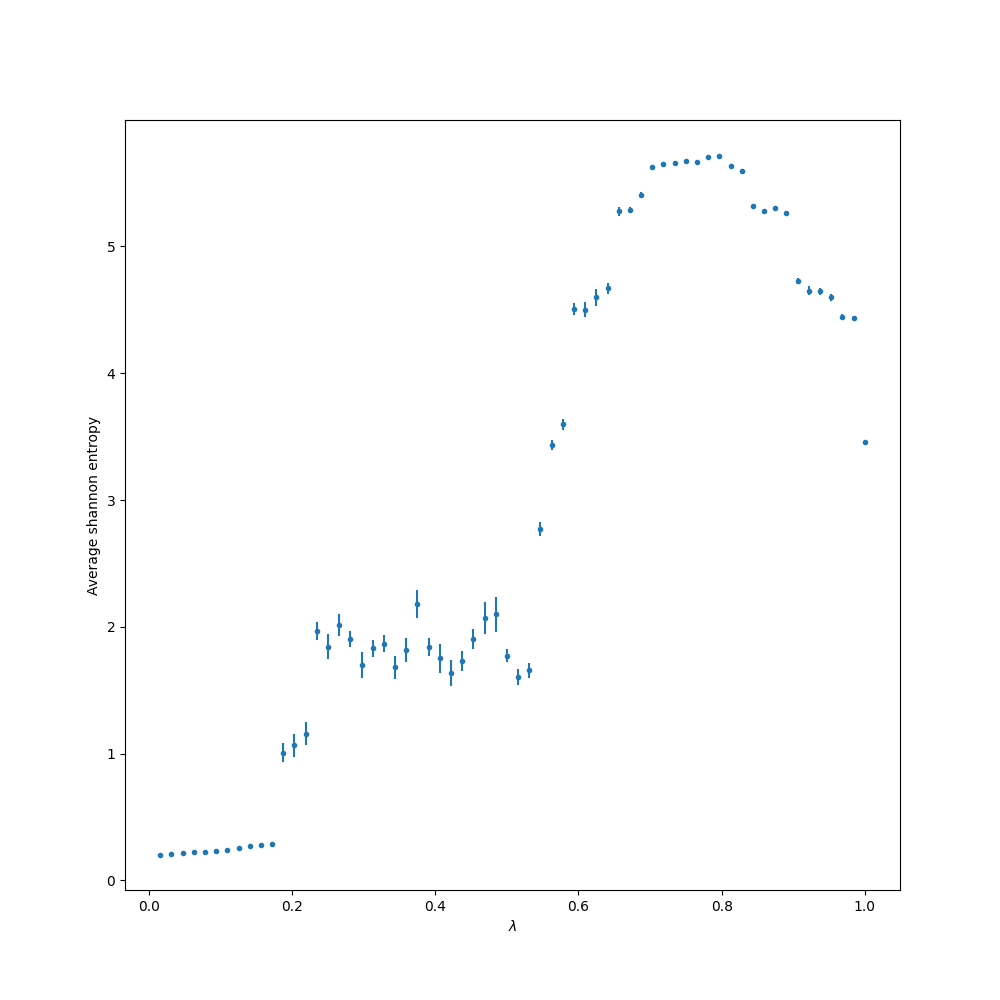
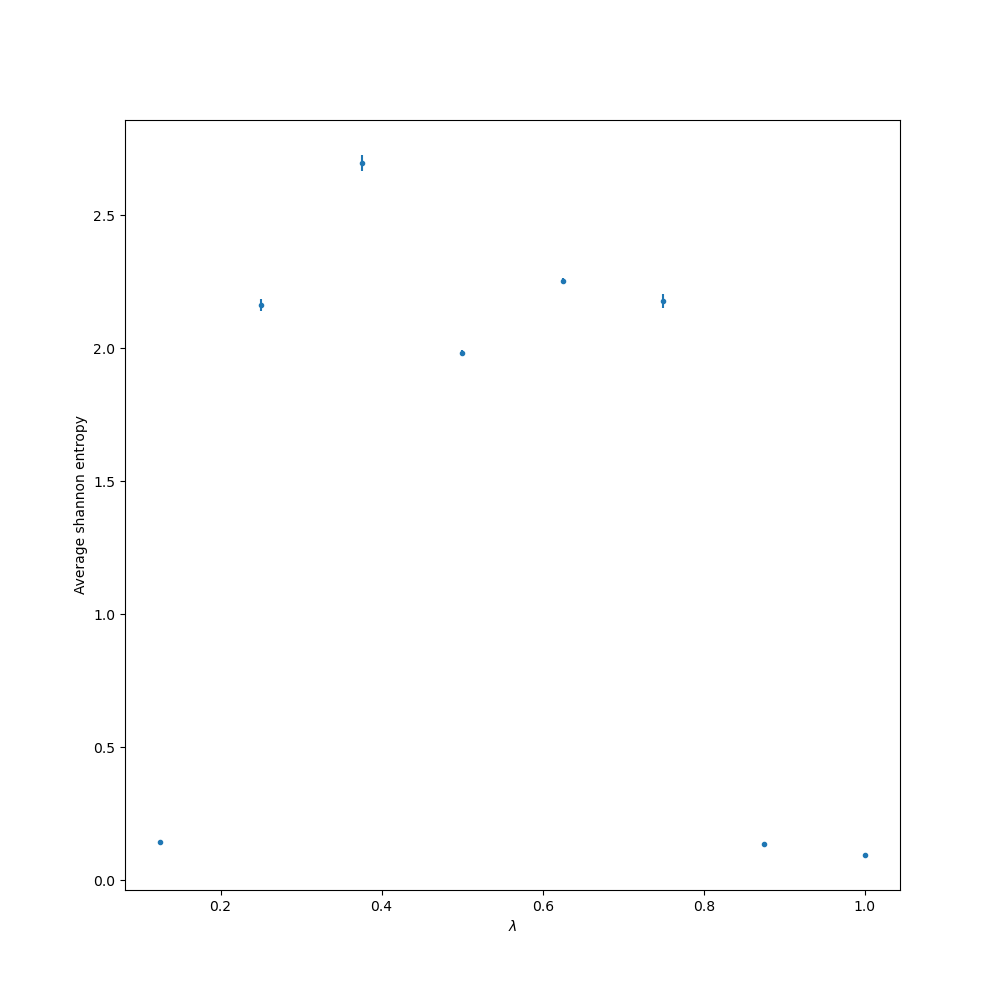
Colors added

diff --git a/langton_test.py b/langton_test.py
@@ -1,8 +1,9 @@
 from ca import CASim
 from ca import configs
-
+from matplotlib.patches import Patch
 from collections import Counter
 import numpy as np
+import csv
 import matplotlib.pyplot as plt
 
 
@@ -17,6 +18,7 @@ class CALangtonTest:
         self.all_configs = configs(self.sim.r, self.sim.k)
         self.size = width * height
         self.sim.init_twt()
+        self.sim.init_rt()
 
     def run(self, mode, lamb=None, new_rule_test=True):
         t = 0
@@ -36,7 +38,6 @@ class CALangtonTest:
             for _ in range(N):
                 self.run(mode="random", lamb=lamb)
                 shannons.append(self.shannon(self.sim.config))
-
             self.add_lists(shannons, lamb)
 
     def sweep_langton_twt(self, N):
@@ -108,12 +109,77 @@ class CALangtonTest:
         )
         figure.savefig(file)
 
+    def csv_lst(self):
+        csv_filename = "rule_class_wolfram.csv"
+        with open(csv_filename) as f:
+            reader = csv.reader(f)
+            lst = list(reader)
+        return lst
+
+    def plot_colors(self, file: str):
+        # For this plot function only use k=2 r=1, the given Wolfram class list 
+        # only includes the rule sets for these parameters. The max rule set is 
+        # 255.
+        figure = plt.figure(figsize=(10, 10))
+
+        color_list = ["purple", "blue", "red", "green", "purple"]
+        ca_code_list = []
+        color_list_matched = []
+        ca_code_list_matched = []
+        lamb_list = self.sim.lamb_list
+        rule_list = self.sim.decimal_rule_list
+        lst = self.csv_lst()
+
+        for pair in lst:
+            ca_code = eval(pair[1])
+            ca_code_list.append(ca_code)
+
+        for rule in rule_list:
+            ca_code = ca_code_list[rule]
+            ca_code_list_matched.append(ca_code)
+            color_list_matched.append(color_list[(ca_code)])
+
+        plt.ylabel("Average H", fontsize=15)
+        plt.xlabel("$\lambda$", fontsize=15)
+        plt.title(
+            f"""Average Shannon entropy for the 1D CA (k = {self.sim.k}, r = {self.sim.r})
+            for width = {self.sim.width} and height = {self.sim.height}.""",
+            loc="center", fontsize=15
+        )
+        print(lamb_list, self.average_shannons, color_list_matched, rule_list)
+        plt.errorbar(
+            lamb_list,
+            self.average_shannons,
+            yerr=self.errors,
+            fmt=".",
+            ecolor=color_list_matched,
+            mfc="black",
+            mec="black",
+        )
+        figure.savefig(file)
+
+        plt.scatter(lamb_list, self.average_shannons, c=color_list_matched, marker="o")
+
+        legend_elements = [
+            Patch(facecolor=color, edgecolor="w")
+            for color in ["blue", "red", "green", "purple"]
+        ]
+
+        plt.legend(
+            handles=legend_elements,
+            labels=[f"Class 1", f"Class 2", f"Class 3", f"Class 4"],
+            loc="upper left",
+            bbox_to_anchor=[1, 1],
+        )
+        plt.figure(figsize=(10, 10))
+        figure.savefig("langton_rt_colorized", bbox_inches="tight")
+
 
 if __name__ == "__main__":
-    test = CALangtonTest(width=64, height=64, k=4, r=1)
+    test = CALangtonTest(width=50, height=100, k=2, r=1)
 
     test.sweep_langton_rt(N=20, steps=30)
-    test.plot("langton_rt")
+    test.plot_colors("langton_rt")
 
     test.sweep_langton_twt(N=20)
     test.plot("langton_twt")

diff --git a/ca.py b/ca.py
@@ -68,6 +68,11 @@ class CASim(Model):
         self.twt_rule_set = [0] * self.rule_set_size
         self.twt_index_list = [i for i in range(self.rule_set_size)]
         self.twt_lamb = 0
+    
+    def init_rt(self):
+        self.lamb_list = []
+        self.rule_set_list = []
+        self.decimal_rule_list =[]
 
     def setter_rule(self, val):
         """Setter for the rule parameter, clipping its value between 0 and the
@@ -105,7 +110,23 @@ class CASim(Model):
 
         self.make_rule_dict(rule_set)
 
+        not_yet_in_list = self.lamb_list.count(lamb)
+        if not_yet_in_list == 0:
+            self.lamb_list.append(lamb)
+
+            power = self.k**(2*self.r+1) -1
+            decimal = 0
+            for i in rule_set:
+                decimal += int(i)*((self.k)**power)
+                power-=1
+            self.decimal_rule_list.append(decimal)
+            self.rule_set_list.append(rule_set)
+
+
     def build_langton_set_twt(self):
+        """Builds the rule set with the table-walk-through method. The initial state
+        exists only out of quiescent states, then for each new generation a random
+        bit is flipped to a random state (which is not the quiescent state)."""
         index = np.random.choice(self.twt_index_list)
         self.twt_index_list.remove(index)
         self.twt_rule_set[index] = np.random.randint(1, self.k)
